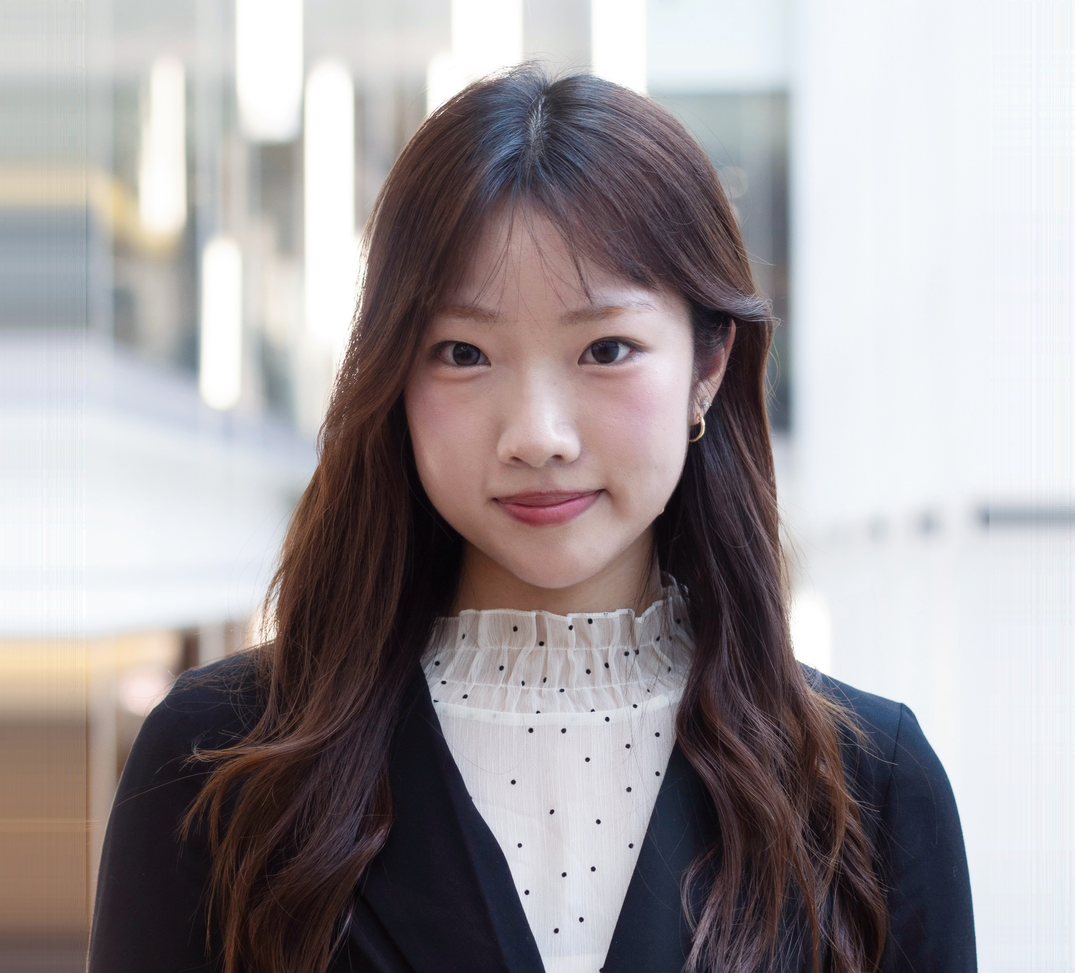
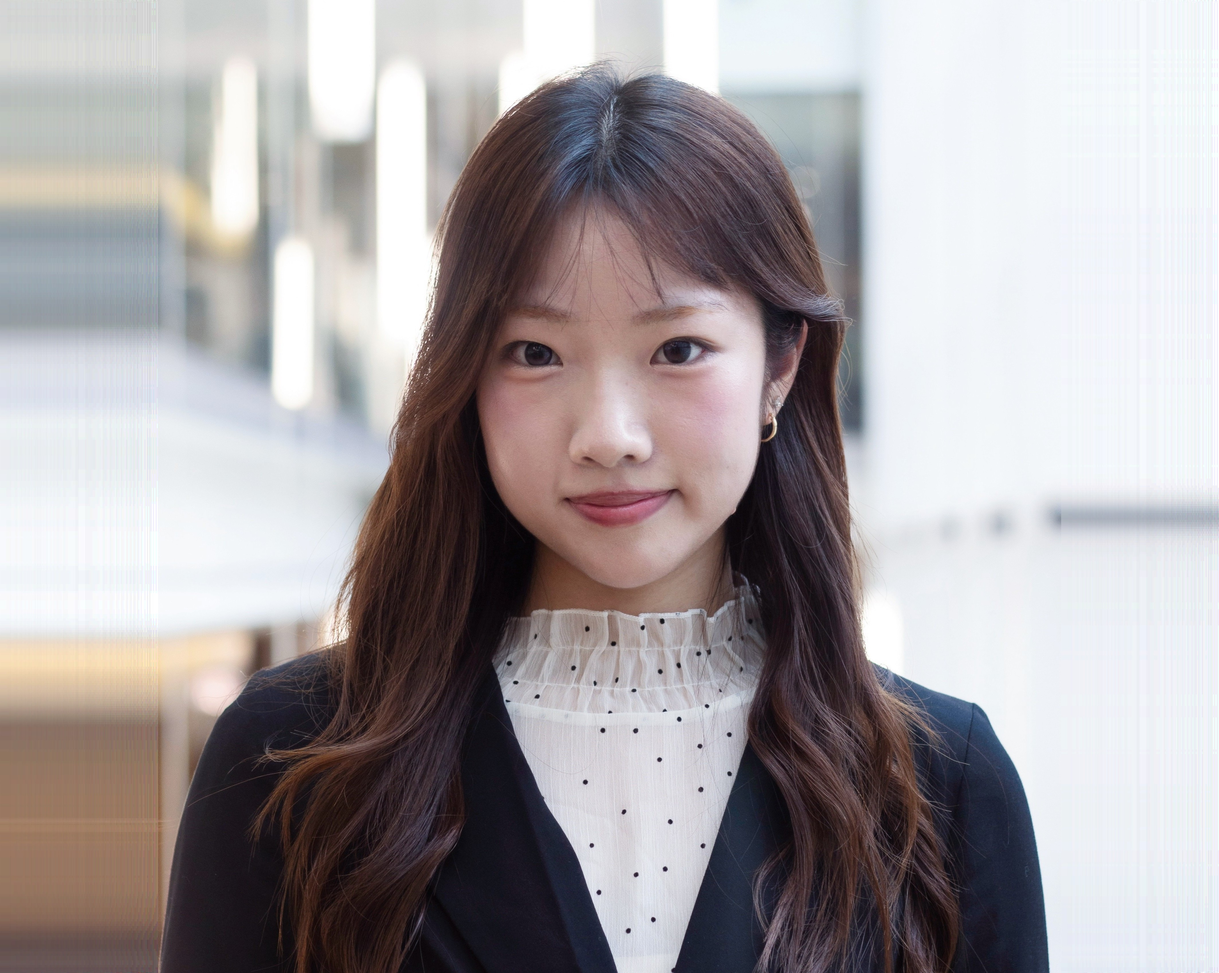
Adjust Charlotte's headshot crop and position

diff --git a/eboard/eboard.html b/eboard/eboard.html
@@ -764,7 +764,7 @@
       <!-- Vice President -->
       <div class="card">
         <div class="headshot-wrap">
-          <img class="headshot-front" src="../eboard_images/Char26Prof.jpg" alt="headshot" style="object-position: 50% 15%;" onerror="this.onerror=null; this.src='../eboard_images/placeholder.jpg'">
+          <img class="headshot-front" src="../eboard_images/Char26Prof.jpg" alt="headshot" style="object-position: 50% 5%;" onerror="this.onerror=null; this.src='../eboard_images/placeholder.jpg'">
           <img class="headshot-back" src="../eboard_images/Char26S.jpg" alt="fun photo" onerror="this.onerror=null; this.src='../eboard_images/placeholder.jpg'">
         </div>
         <div class="card-body">
